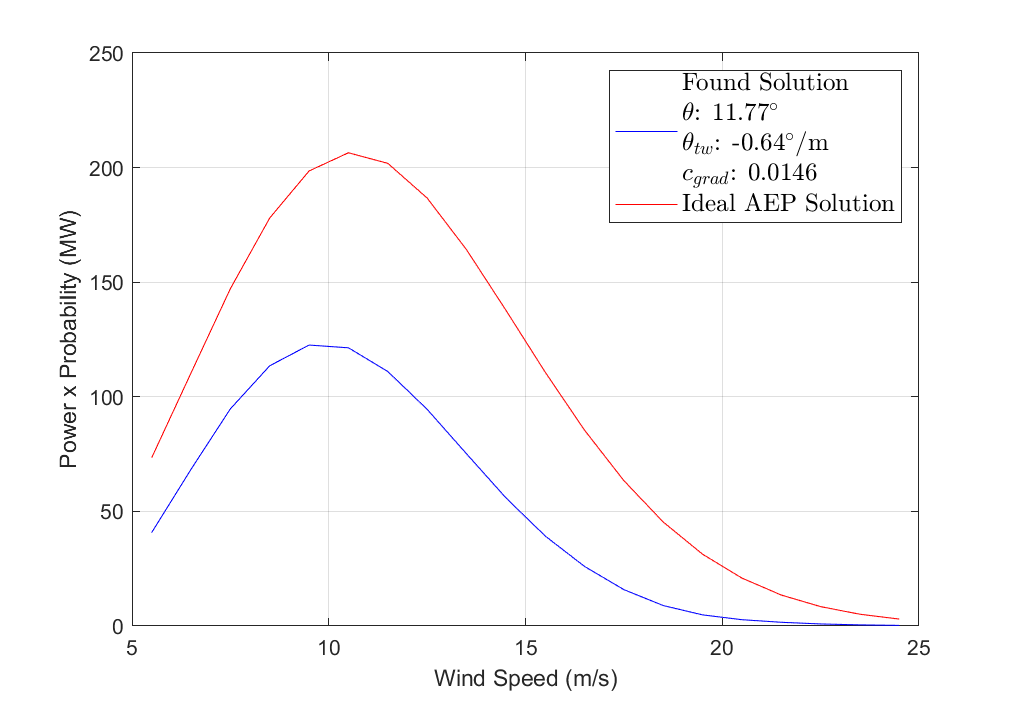
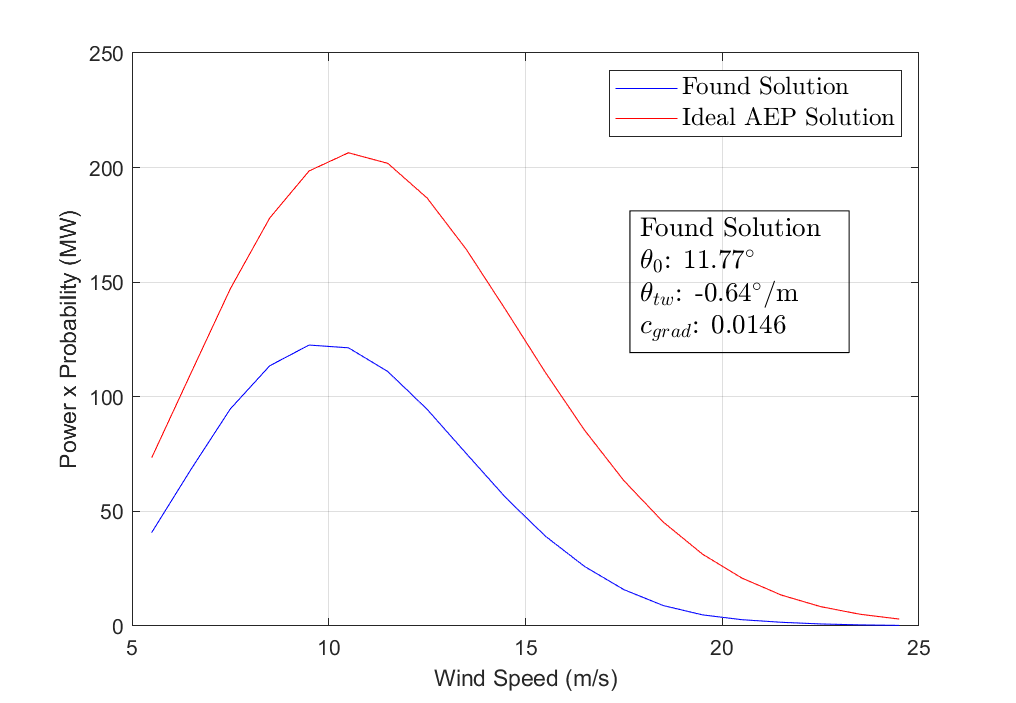
Change legend to have blade params in different text box.

Changed region(s): [[0.6102, 0.0896, 0.8848, 0.5078]]

diff --git a/lastSolution.m b/lastSolution.m
@@ -13,11 +13,15 @@ plot(S3(:,1),(S3(:,5)./1e6),'-r');
 grid
 xlabel('Wind Speed (m/s)');
 ylabel('Power x Probability (MW)');
-legend({['Found Solution' newline '$\theta$: ' num2str(round(xdeg(1),2)) '$^\circ$'  ...
-    newline '$\theta_{tw}$: ' num2str(round(xdeg(2),2)) '$^\circ$/m' newline...
-    '$c_{grad}$: ' num2str(round(xdeg(3),4))], 'Ideal AEP Solution'},...
+legend({'Found Solution', 'Ideal AEP Solution'},...
     'Location','Northeast','Interpreter','latex','FontSize',12);
 set(gcf,'position',[200,200,650,450])
+
+annotation('textbox',[.62 .4 .3 .3],'String',['Found Solution' newline ...
+    '$\theta_0$: ' num2str(round(xdeg(1),2)) '$^\circ$'  ...
+    newline '$\theta_{tw}$: ' num2str(round(xdeg(2),2)) '$^\circ$/m' newline...
+    '$c_{grad}$: ' num2str(round(xdeg(3),4))],'FitBoxToText','on','Interpreter','Latex','FontSize',13);
+
 saveas(f6,'status/powerLastSolution.png');
 
 % Change settings
@@ -31,7 +35,6 @@ globaldata.flags.tiploss=true;
 globaldata.flags.overrideLimits=false;
 
 plot(S3_ntl(:,1),(S3_ntl(:,4)./1e6),'--c');
-legend({['Found Solution' newline '$\theta$: ' num2str(round(xdeg(1),2)) '$^\circ$'  ...
-    newline '$\theta_{tw}$: ' num2str(round(xdeg(2),2)) '$^\circ$/m' newline...
-    '$c_{grad}$: ' num2str(round(xdeg(3),4))], 'Ideal AEP Solution','Tip Losses Neglected'},...
+legend({'Found Solution', 'Ideal AEP Solution','Tip Losses Neglected'},...
     'Location','Northeast','Interpreter','latex','FontSize',12);
+
